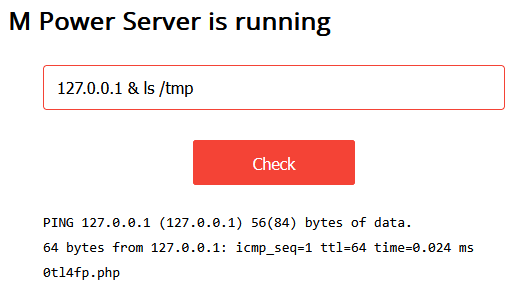
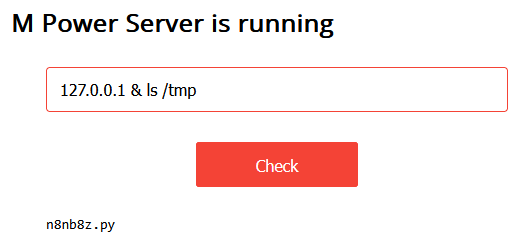
info added

diff --git a/report.md b/report.md
@@ -576,7 +576,7 @@ hydra -l admin -P "/home/kali/Downloads/passwords.txt" -s 7788 92.51.39.106 http
 **Категория:** [A03:2021-Injection](https://owasp.org/Top10/A03_2021-Injection/)\
 **Страница:** `http://92.51.39.106:7788/index.html`\
 **Критичность:** Высокая\
-**Описание:** На главной странице реализован функционал загрузки картинок. Исходя из названия `Upload Car Wallpaper` можно сказать, что к загрузке предполагаются картинки с автомобилями. Однако загружаемые файлы никак не валидируются по содержанию, в результате чего загрузить можно любой файл, например, PHP-shell.
+**Описание:** На главной странице реализован функционал загрузки картинок. Исходя из названия `Upload Car Wallpaper` можно сказать, что к загрузке предполагаются картинки с автомобилями. Однако загружаемые файлы никак не валидируются по содержанию, в результате чего загрузить можно любой файл, например, Web Shell.
 **Рекомендация для исправления:** Валидация файлов по типу содержимого.
 
 <details>
@@ -586,7 +586,7 @@ hydra -l admin -P "/home/kali/Downloads/passwords.txt" -s 7788 92.51.39.106 http
 
 ![](pics/ufu_shell_upload.png)
 
-- будет выведено сообщение об успешной загрузке файла, при этом имя файла отобразится по шаблону "`file` + 6 случайных символов", расширение останется без изменений, в данном случае загруженный файл будет отображаться с названием `file0tl4fp.php`:
+- будет выведено сообщение об успешной загрузке файла, при этом имя файла отобразится по шаблону "`file` + 6 случайных символов", расширение останется без изменений, в данном случае загруженный файл будет отображаться с названием `filen8nb8z.py`:
 
 ![](pics/ufu_shell_uploaded.png)
 
@@ -598,7 +598,11 @@ hydra -l admin -P "/home/kali/Downloads/passwords.txt" -s 7788 92.51.39.106 http
 
 ![](pics/ufu_final_name.png)
 
-- далее перейдём на страницу http://92.51.39.106:7788/read?file=../../tmp/0tl4fp.php ???????????????????
+- далее, эксплуатируя уязвимость `Path Traversal`, переходим на страницу `http://92.51.39.106:7788/read?file=../../tmp/n8nb8z.py` и видим код загруженного Shell'a, т.к. при обращении к файлу через URL `read?file=../../` сервер только отобразит содержимое файла, а не выполнит его как скрипт:
+
+![](pics/ufu_shell_access.png)
+
+Теоретически, уже имя доступ к исходным кодам приложения через уязвимость `OS Command Injection` и принимая во внимание тот факт, что приложение работает под root-правами, у потенциального злоумышленника появляется возможность модифицировать код работающего приложения так, чтобы получить возможность выполнить загруженный на сервер скрипт Web Shell для установления собственного бэкдора.
 
 </details>
 
